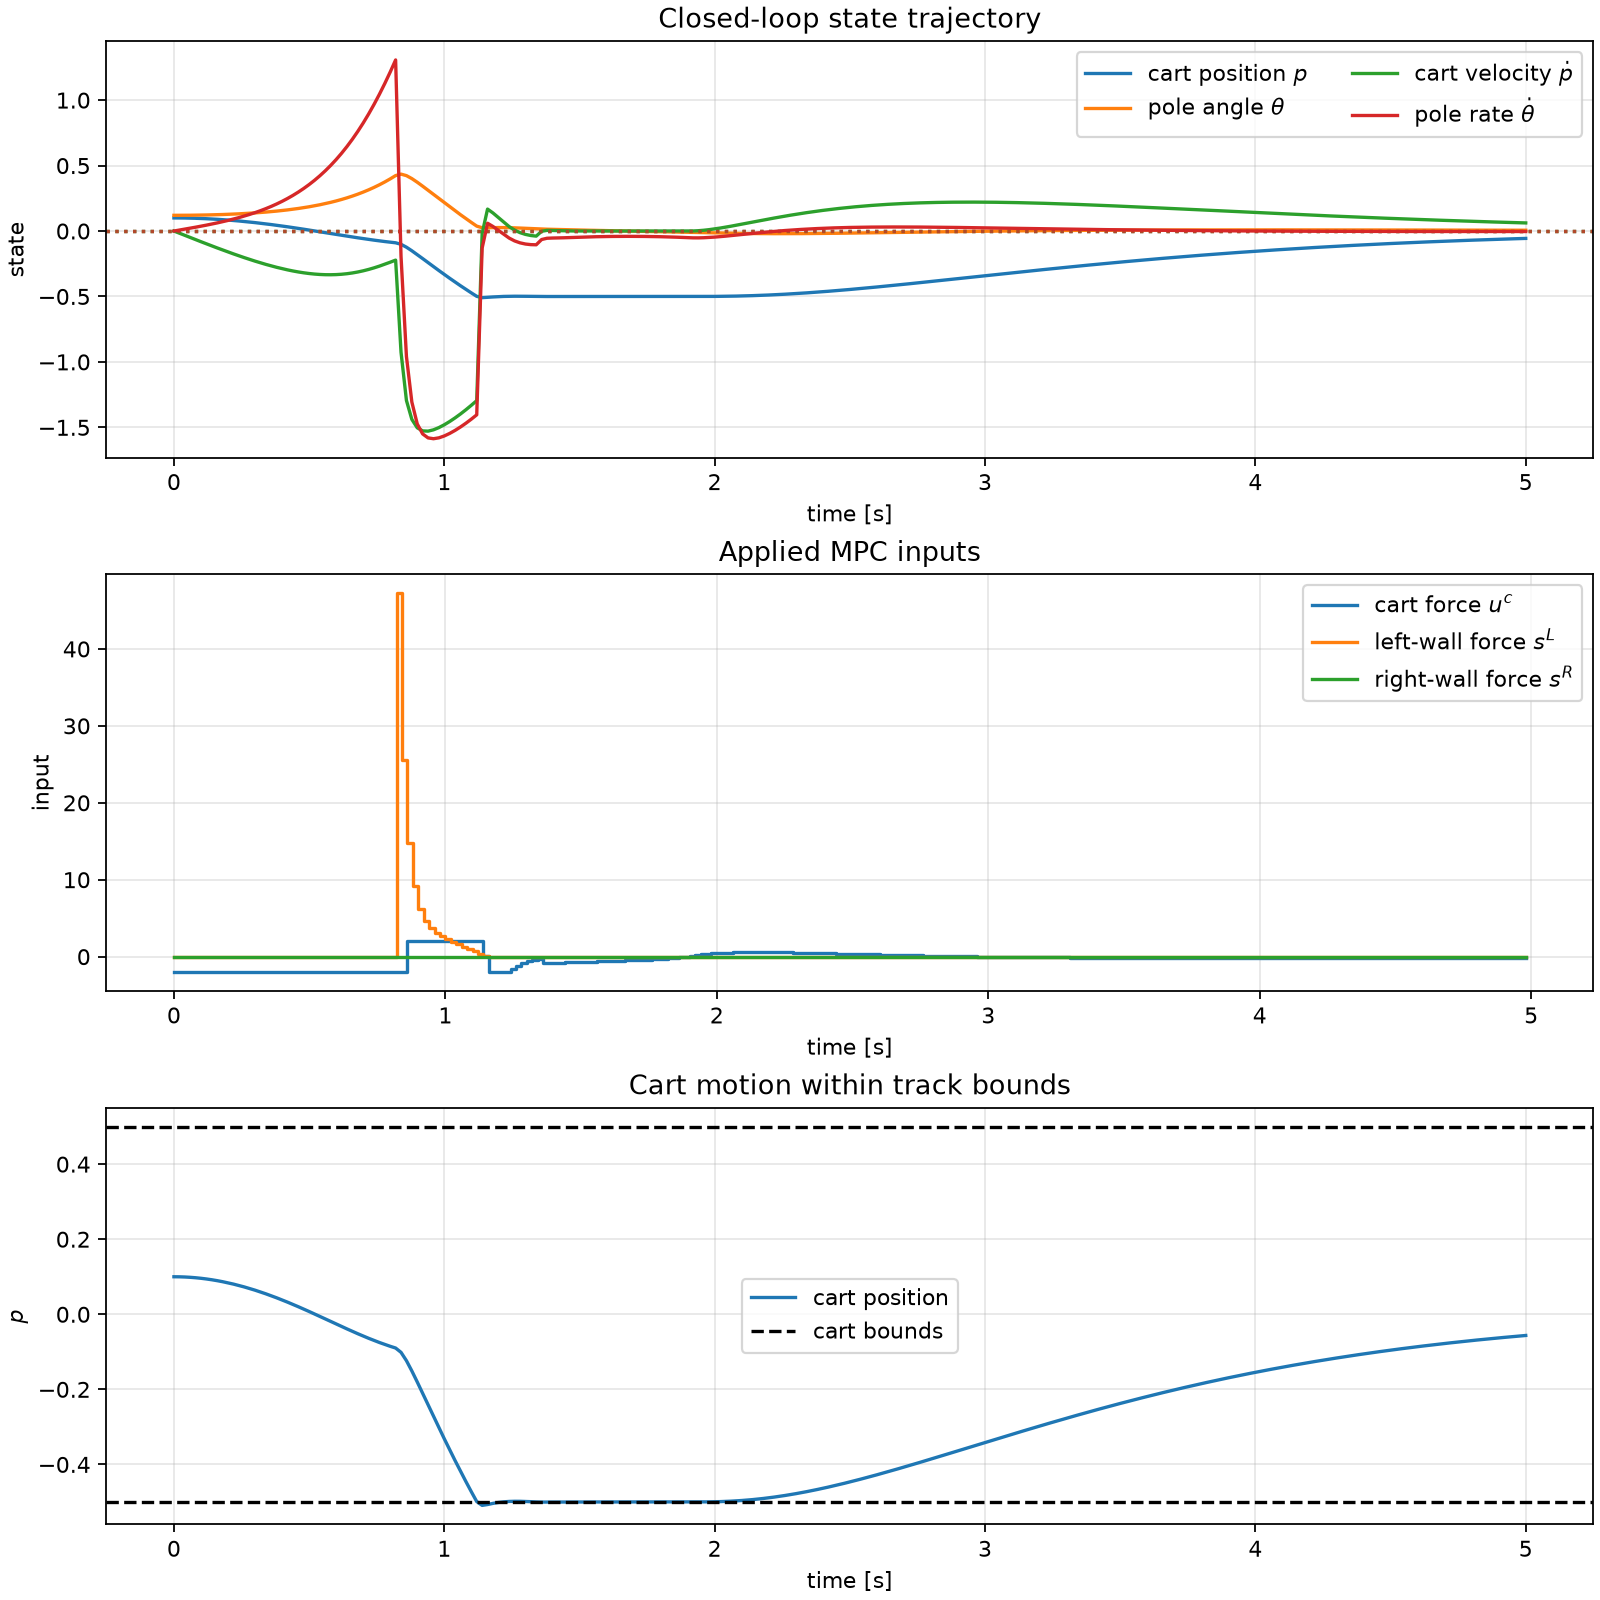
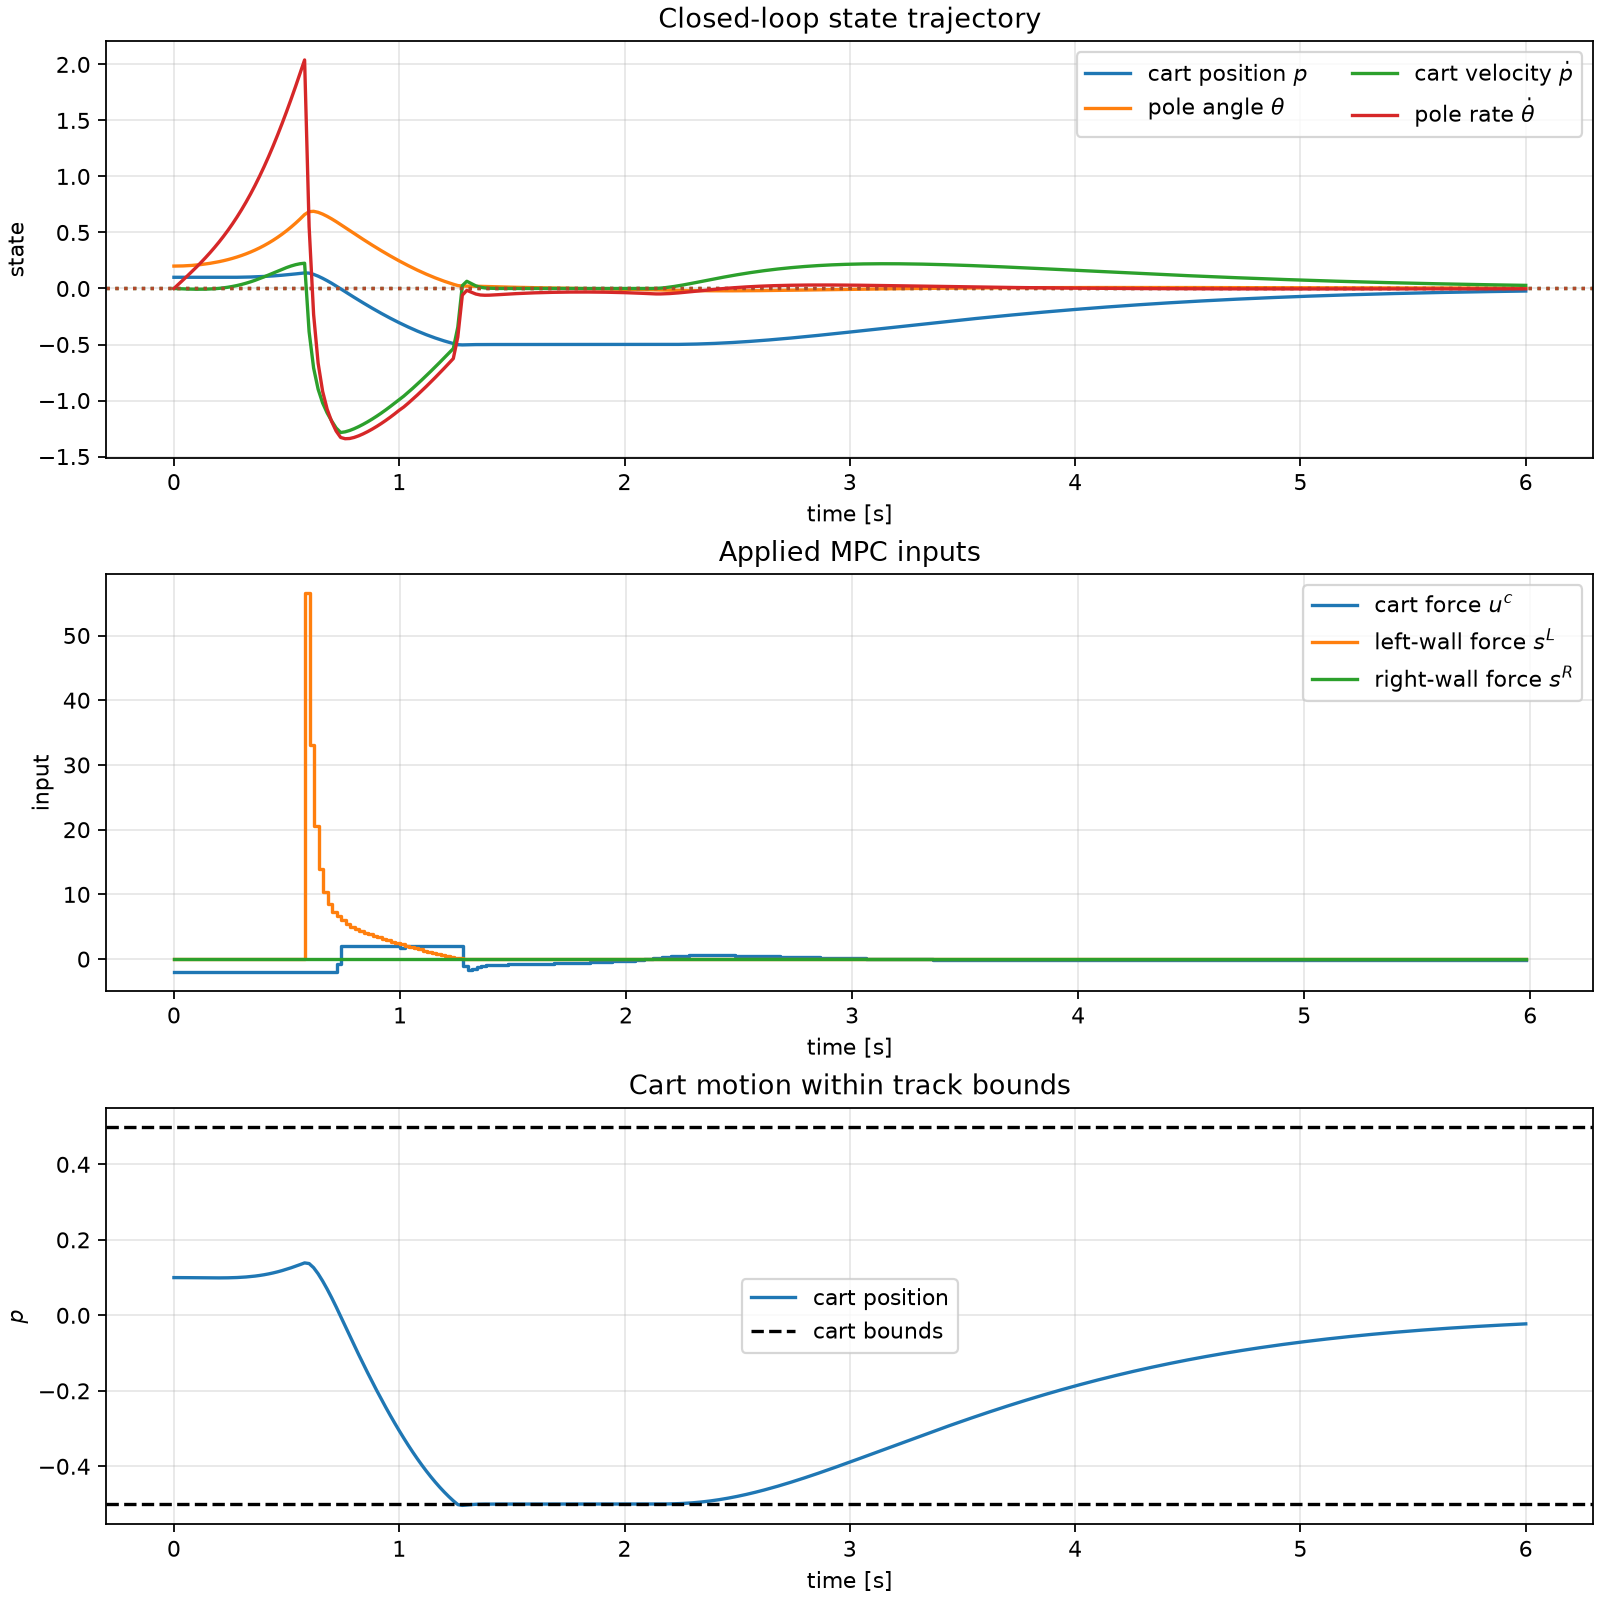
update the simulator a bit

diff --git a/cartpole/closed_loop_mpc.py b/cartpole/closed_loop_mpc.py
@@ -17,6 +17,8 @@ from scipy.linalg import solve_discrete_are
 
 ROOT = Path(__file__).resolve().parents[1]
 THETA_LIMIT = np.pi / 8
+WALL_DISTANCE = 0.5
+CART_FORCE_LIMIT = 2.0
 # The default Matplotlib config directory may be read-only in a virtualenv or
 # remote workspace.  Configure it before importing pyplot.
 os.environ.setdefault("MPLCONFIGDIR", str(ROOT / ".matplotlib"))
@@ -62,7 +64,10 @@ def make_mpc_problem(horizon, timestep, theta_limit, state_slack_weight=0.0,
     ddelta_min, ddelta_max = parameters[13], parameters[14]
     gravity, length = parameters[16], parameters[17]
     cart_mass, pole_mass = parameters[18], parameters[19]
-    kappa, nu, distance = parameters[20], parameters[21], parameters[22]
+    kappa, nu = parameters[20], parameters[21]
+    # Keep the MPC contact surfaces aligned with the MuJoCo wall locations.
+    # The cart's own travel limits remain those stored in x_min/x_max.
+    distance = WALL_DISTANCE
     continuous_a = np.zeros((4, 4))
     continuous_a[:2, 2:] = np.eye(2)
     continuous_a[2, 1] = gravity * pole_mass / cart_mass
@@ -76,6 +81,7 @@ def make_mpc_problem(horizon, timestep, theta_limit, state_slack_weight=0.0,
     parameters[0] = horizon
     parameters[1] = np.eye(4) + timestep * continuous_a
     parameters[2] = timestep * continuous_b
+    parameters[7], parameters[8] = -CART_FORCE_LIMIT, CART_FORCE_LIMIT
     parameters[15] = timestep
     x_max = np.asarray(x_max, dtype=float).copy()
     x_max[1] = theta_limit
@@ -116,6 +122,7 @@ def make_mpc_problem(horizon, timestep, theta_limit, state_slack_weight=0.0,
     parameters[10] = kappa * delta_max + nu * ddelta_max
     parameters[11], parameters[12] = delta_min, delta_max
     parameters[13], parameters[14] = ddelta_min, ddelta_max
+    parameters[22] = distance
     problem = Cartpole(
         prob_params=parameters, sampled_params=sampled_params,
         state_slack_weight=state_slack_weight, state_slack_max=state_slack_max,
@@ -214,7 +221,7 @@ def run_mpc(initial_state, goal_state, steps, horizon, timestep, theta_limit,
         raise ValueError("plant must be 'toy' or 'mujoco'")
 
     problem = make_mpc_problem(
-        horizon, timestep, theta_limit, state_slack_weight, wall_force_weight
+        horizon, timestep, theta_limit, state_slack_weight, wall_force_weight,
     )
     states = np.empty((steps + 1, problem.n))
     controls = np.empty((steps, problem.m))
@@ -308,6 +315,35 @@ def plot_trajectory(problem, states, controls, goal_state, output_path):
     plt.close(figure)
 
 
+def save_rollout(output_path, problem, states, controls, costs, solve_times,
+                 goal_state, plant):
+    """Save a self-describing MPC rollout for later replay or visualization.
+
+    The compressed NumPy archive intentionally stores raw state samples rather
+    than simulator-specific objects, so it can be replayed by the MuJoCo
+    visualizer regardless of whether this rollout used the toy or MuJoCo
+    plant.
+    """
+    output_path.parent.mkdir(parents=True, exist_ok=True)
+    np.savez_compressed(
+        output_path,
+        time=np.arange(states.shape[0]) * problem.dh,
+        input_time=np.arange(controls.shape[0]) * problem.dh,
+        states=states,
+        controls=controls,
+        costs=costs,
+        solve_times=solve_times,
+        initial_state=states[0],
+        goal_state=goal_state,
+        timestep=np.array(problem.dh),
+        horizon=np.array(problem.N),
+        theta_limit=np.array(THETA_LIMIT),
+        plant=np.array(plant),
+        state_labels=np.array(["p", "theta", "p_dot", "theta_dot"]),
+        control_labels=np.array(["cart_force", "left_wall_force", "right_wall_force"]),
+    )
+
+
 def main():
     parser = argparse.ArgumentParser(description=__doc__)
     parser.add_argument("--steps", type=int, default=100, help="Number of MPC updates.")
@@ -344,6 +380,11 @@ def main():
         "--plot", type=Path, default=ROOT / "cartpole" / "outputs" / "closed_loop_mpc.png",
         help="Destination PNG path.",
     )
+    parser.add_argument(
+        "--data", type=Path,
+        default=ROOT / "cartpole" / "data" / "closed_loop_mpc.npz",
+        help="Destination compressed rollout archive for later replay.",
+    )
     args = parser.parse_args()
     if args.steps < 1 or args.horizon < 2 or args.dt <= 0:
         parser.error("--steps and --dt must be positive; --horizon must be at least 2")
@@ -354,7 +395,12 @@ def main():
         wall_force_weight=args.wall_force_weight,
     )
     plot_trajectory(problem, states, controls, np.asarray(args.goal), args.plot)
+    save_rollout(
+        args.data, problem, states, controls, costs, solve_times,
+        np.asarray(args.goal), args.plant,
+    )
     print(f"Saved plot to {args.plot}")
+    print(f"Saved rollout data to {args.data}")
     print(f"Mean MIQP solve time: {np.mean(solve_times):.4f}s")
     print(f"Final state: {states[-1]}")
 

diff --git a/cartpole/visualize_rollout_mujoco.py b/cartpole/visualize_rollout_mujoco.py
@@ -1,0 +1,99 @@
+#!/usr/bin/env python3
+"""Replay a saved closed-loop Cartpole trajectory in the MuJoCo viewer.
+
+The viewer is driven by the saved states, rather than re-integrating the
+saved controls.  This makes playback faithful to the recorded MPC rollout
+whether it was generated using the toy plant or the MuJoCo plant.
+"""
+
+import argparse
+import time
+from pathlib import Path
+
+import mujoco
+import mujoco.viewer
+import numpy as np
+
+try:
+    from .mujoco_soft_walls import SoftWallCartpole
+except ImportError:  # Supports direct execution from the repository root.
+    from mujoco_soft_walls import SoftWallCartpole
+
+
+ROOT = Path(__file__).resolve().parents[1]
+DEFAULT_DATA = ROOT / "cartpole" / "data" / "closed_loop_mpc.npz"
+
+
+def load_rollout(data_path):
+    """Load and validate the state trajectory required for MuJoCo playback."""
+    with np.load(data_path, allow_pickle=False) as archive:
+        required = {"states", "time", "timestep"}
+        missing = required.difference(archive.files)
+        if missing:
+            raise ValueError(f"{data_path} is missing required fields: {sorted(missing)}")
+        states = np.asarray(archive["states"], dtype=float)
+        times = np.asarray(archive["time"], dtype=float)
+        timestep = float(archive["timestep"])
+        plant = str(archive["plant"]) if "plant" in archive.files else "unknown"
+    if states.ndim != 2 or states.shape[1] != 4:
+        raise ValueError("rollout states must have shape (num_samples, 4)")
+    if times.shape != (states.shape[0],):
+        raise ValueError("rollout time must have one sample per state")
+    if timestep <= 0:
+        raise ValueError("rollout timestep must be positive")
+    return states, times, timestep, plant
+
+
+def set_viewer_state(simulator, state):
+    """Set MuJoCo's generalized coordinates to one saved Cartpole state."""
+    simulator.data.qpos[:2] = state[:2]
+    simulator.data.qvel[:2] = state[2:]
+    # No integration occurs during playback. mj_forward updates the geometry
+    # and camera-visible kinematics for this exact saved state.
+    mujoco.mj_forward(simulator.model, simulator.data)
+
+
+def replay(states, timestep, speed=1.0, loop=True):
+    """Display states in real time, scaled by ``speed``."""
+    simulator = SoftWallCartpole(contact_mode="explicit")
+    simulator.reset(states[0])
+    frame_duration = timestep / speed
+
+    with mujoco.viewer.launch_passive(simulator.model, simulator.data) as viewer:
+        frame = 0
+        while viewer.is_running():
+            frame_start = time.perf_counter()
+            set_viewer_state(simulator, states[frame])
+            viewer.sync()
+            frame += 1
+            if frame == len(states):
+                if not loop:
+                    break
+                frame = 0
+            time.sleep(max(0.0, frame_duration - (time.perf_counter() - frame_start)))
+
+
+def main():
+    parser = argparse.ArgumentParser(description=__doc__)
+    parser.add_argument("--data", type=Path, default=DEFAULT_DATA,
+                        help="Rollout .npz file from closed_loop_mpc.py.")
+    parser.add_argument("--speed", type=float, default=1.0,
+                        help="Playback-rate multiplier (default: real time).")
+    parser.add_argument("--once", action="store_true",
+                        help="Play once instead of looping until the viewer closes.")
+    args = parser.parse_args()
+    if args.speed <= 0:
+        parser.error("--speed must be positive")
+    if not args.data.is_file():
+        parser.error(f"rollout archive not found: {args.data}")
+
+    states, times, timestep, plant = load_rollout(args.data)
+    print(
+        f"Replaying {len(states)} states ({times[-1]:.3f}s) from {args.data} "
+        f"[recorded plant: {plant}, speed: {args.speed:g}x]"
+    )
+    replay(states, timestep, speed=args.speed, loop=not args.once)
+
+
+if __name__ == "__main__":
+    main()

diff --git a/cartpole/mujoco_soft_walls.py b/cartpole/mujoco_soft_walls.py
@@ -110,7 +110,8 @@ class SoftWallCartpole:
         if self.contact_mode == "mujoco" and not np.allclose(soft_wall_forces, 0.0):
             raise ValueError("explicit soft-wall forces are invalid in 'mujoco' contact mode")
         self._applied_soft_wall_forces = np.maximum(soft_wall_forces, 0.0)
-        self.data.ctrl[0] = np.clip(cart_force, -2.0, 2.0)
+        ctrl_min, ctrl_max = self.model.actuator_ctrlrange[0]
+        self.data.ctrl[0] = np.clip(cart_force, ctrl_min, ctrl_max)
         for _ in range(substeps):
             self.data.qfrc_applied[:] = 0.0
             if self.contact_mode == "explicit":
